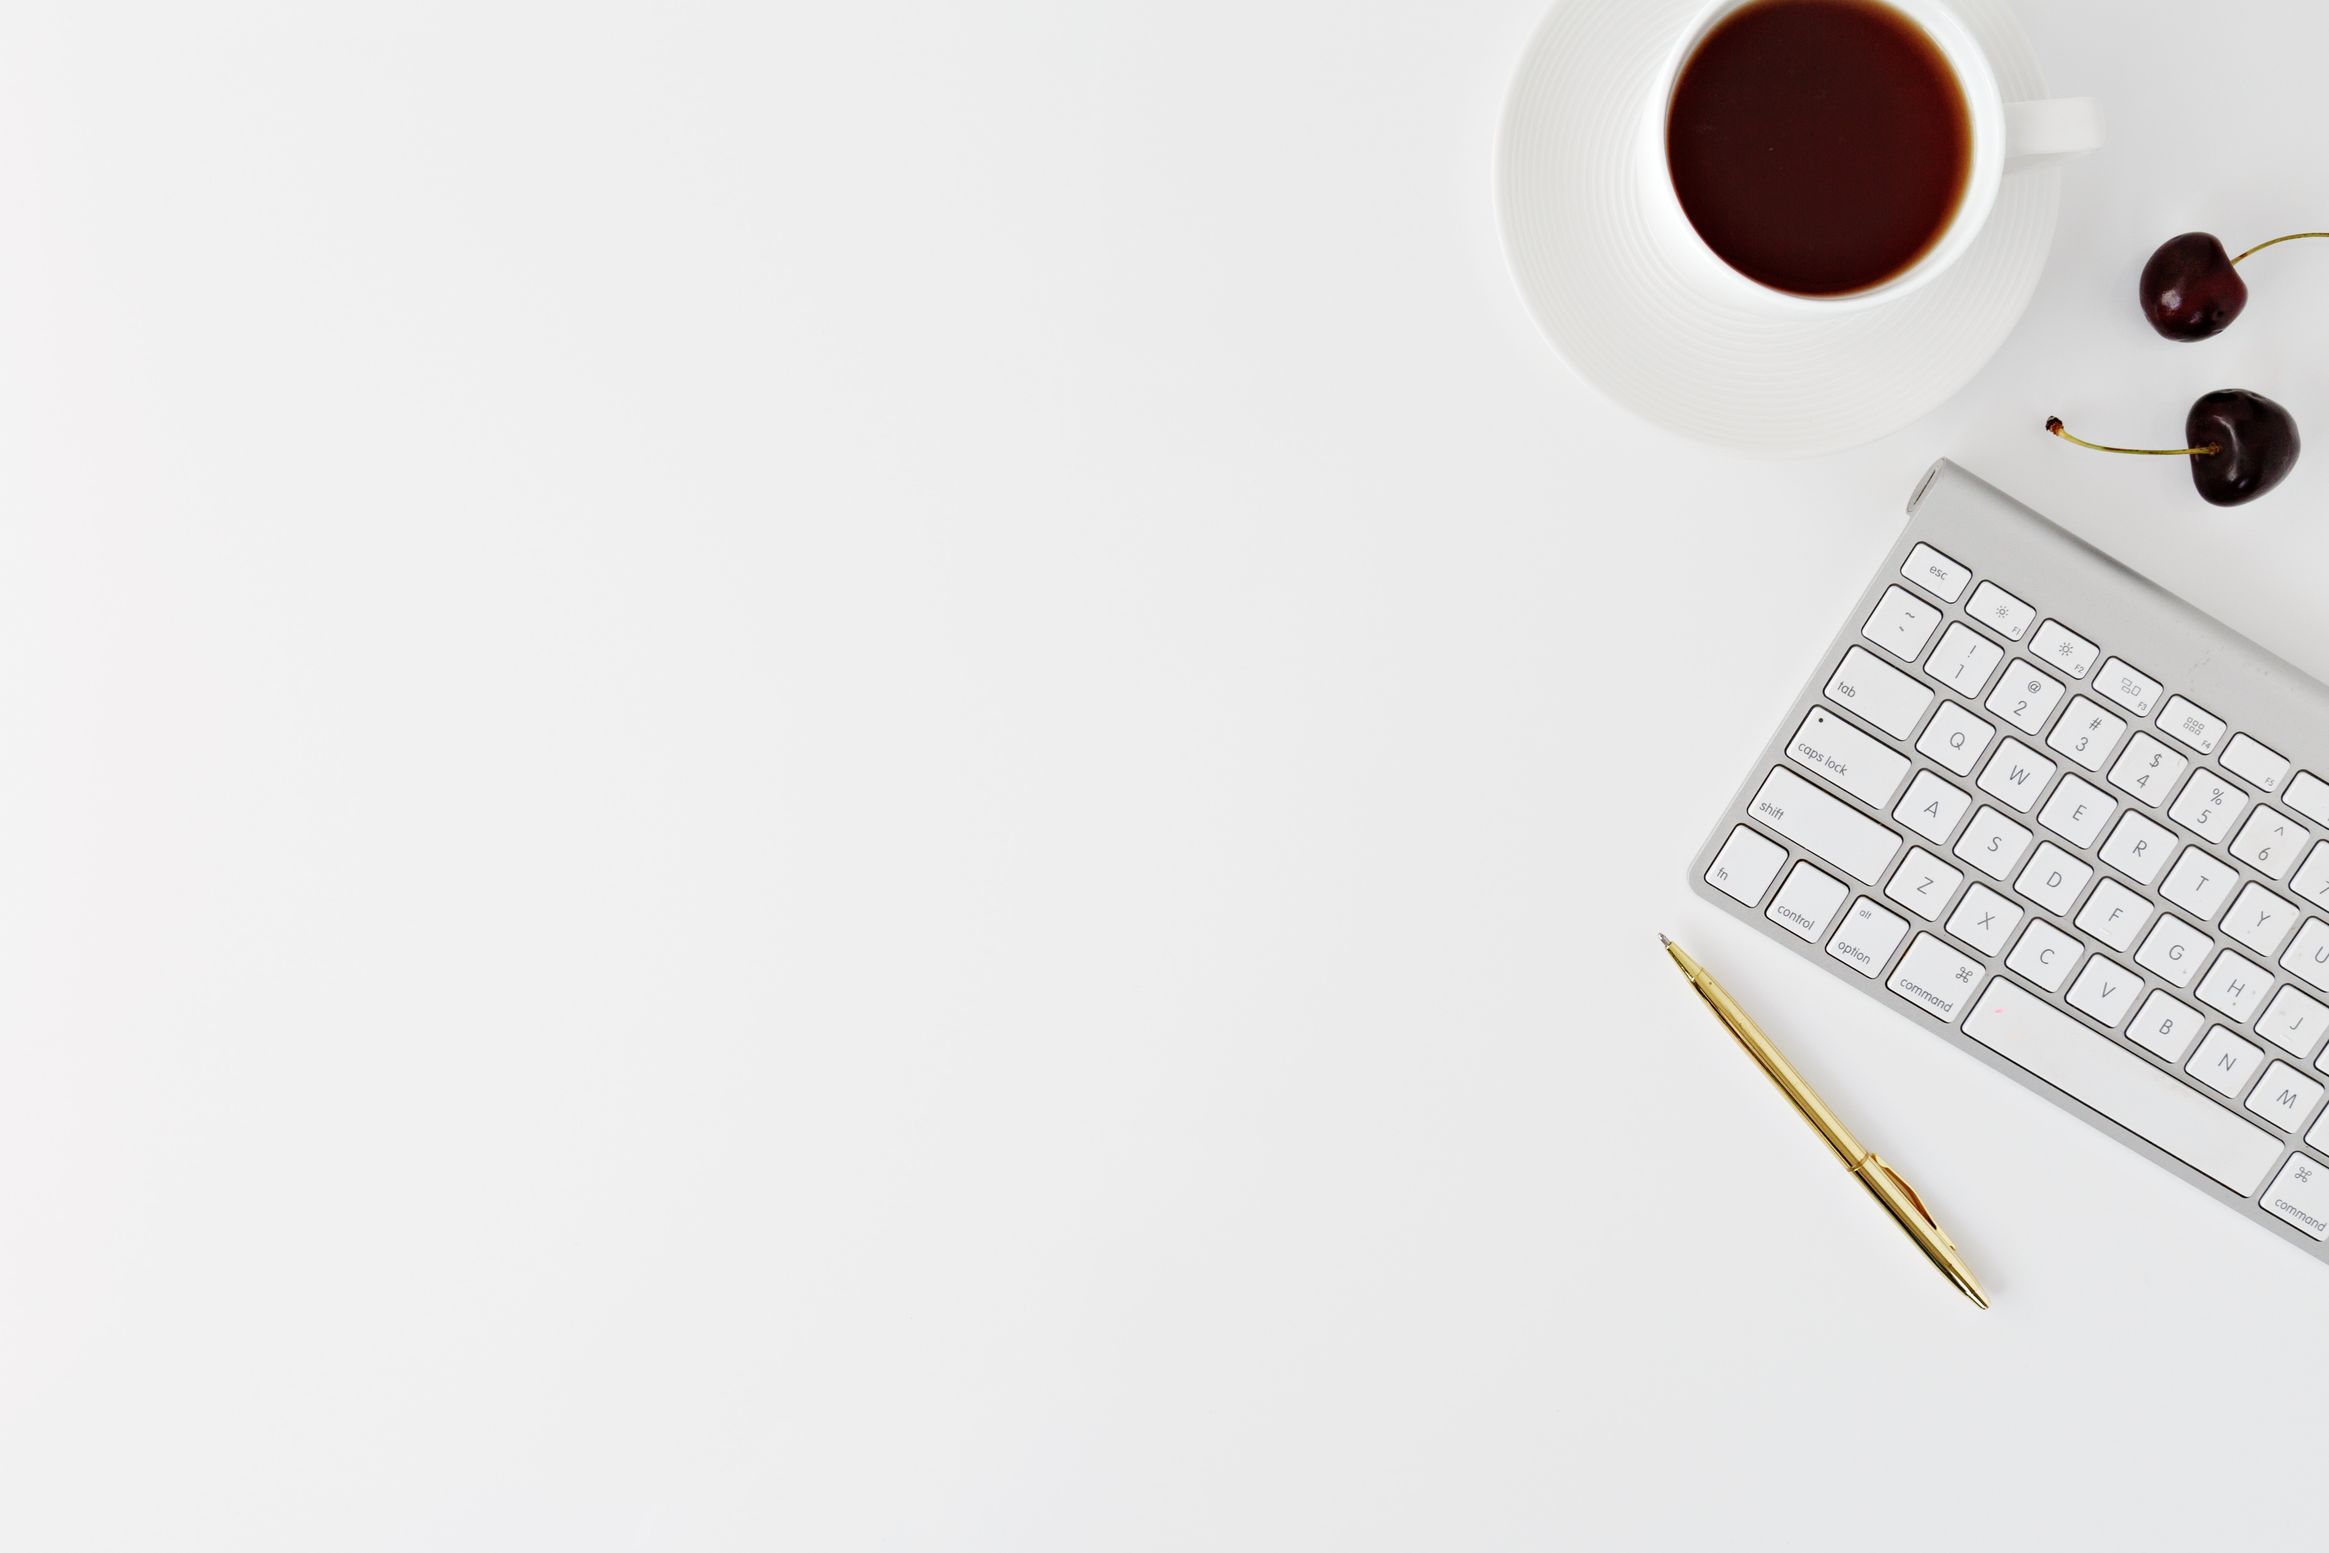
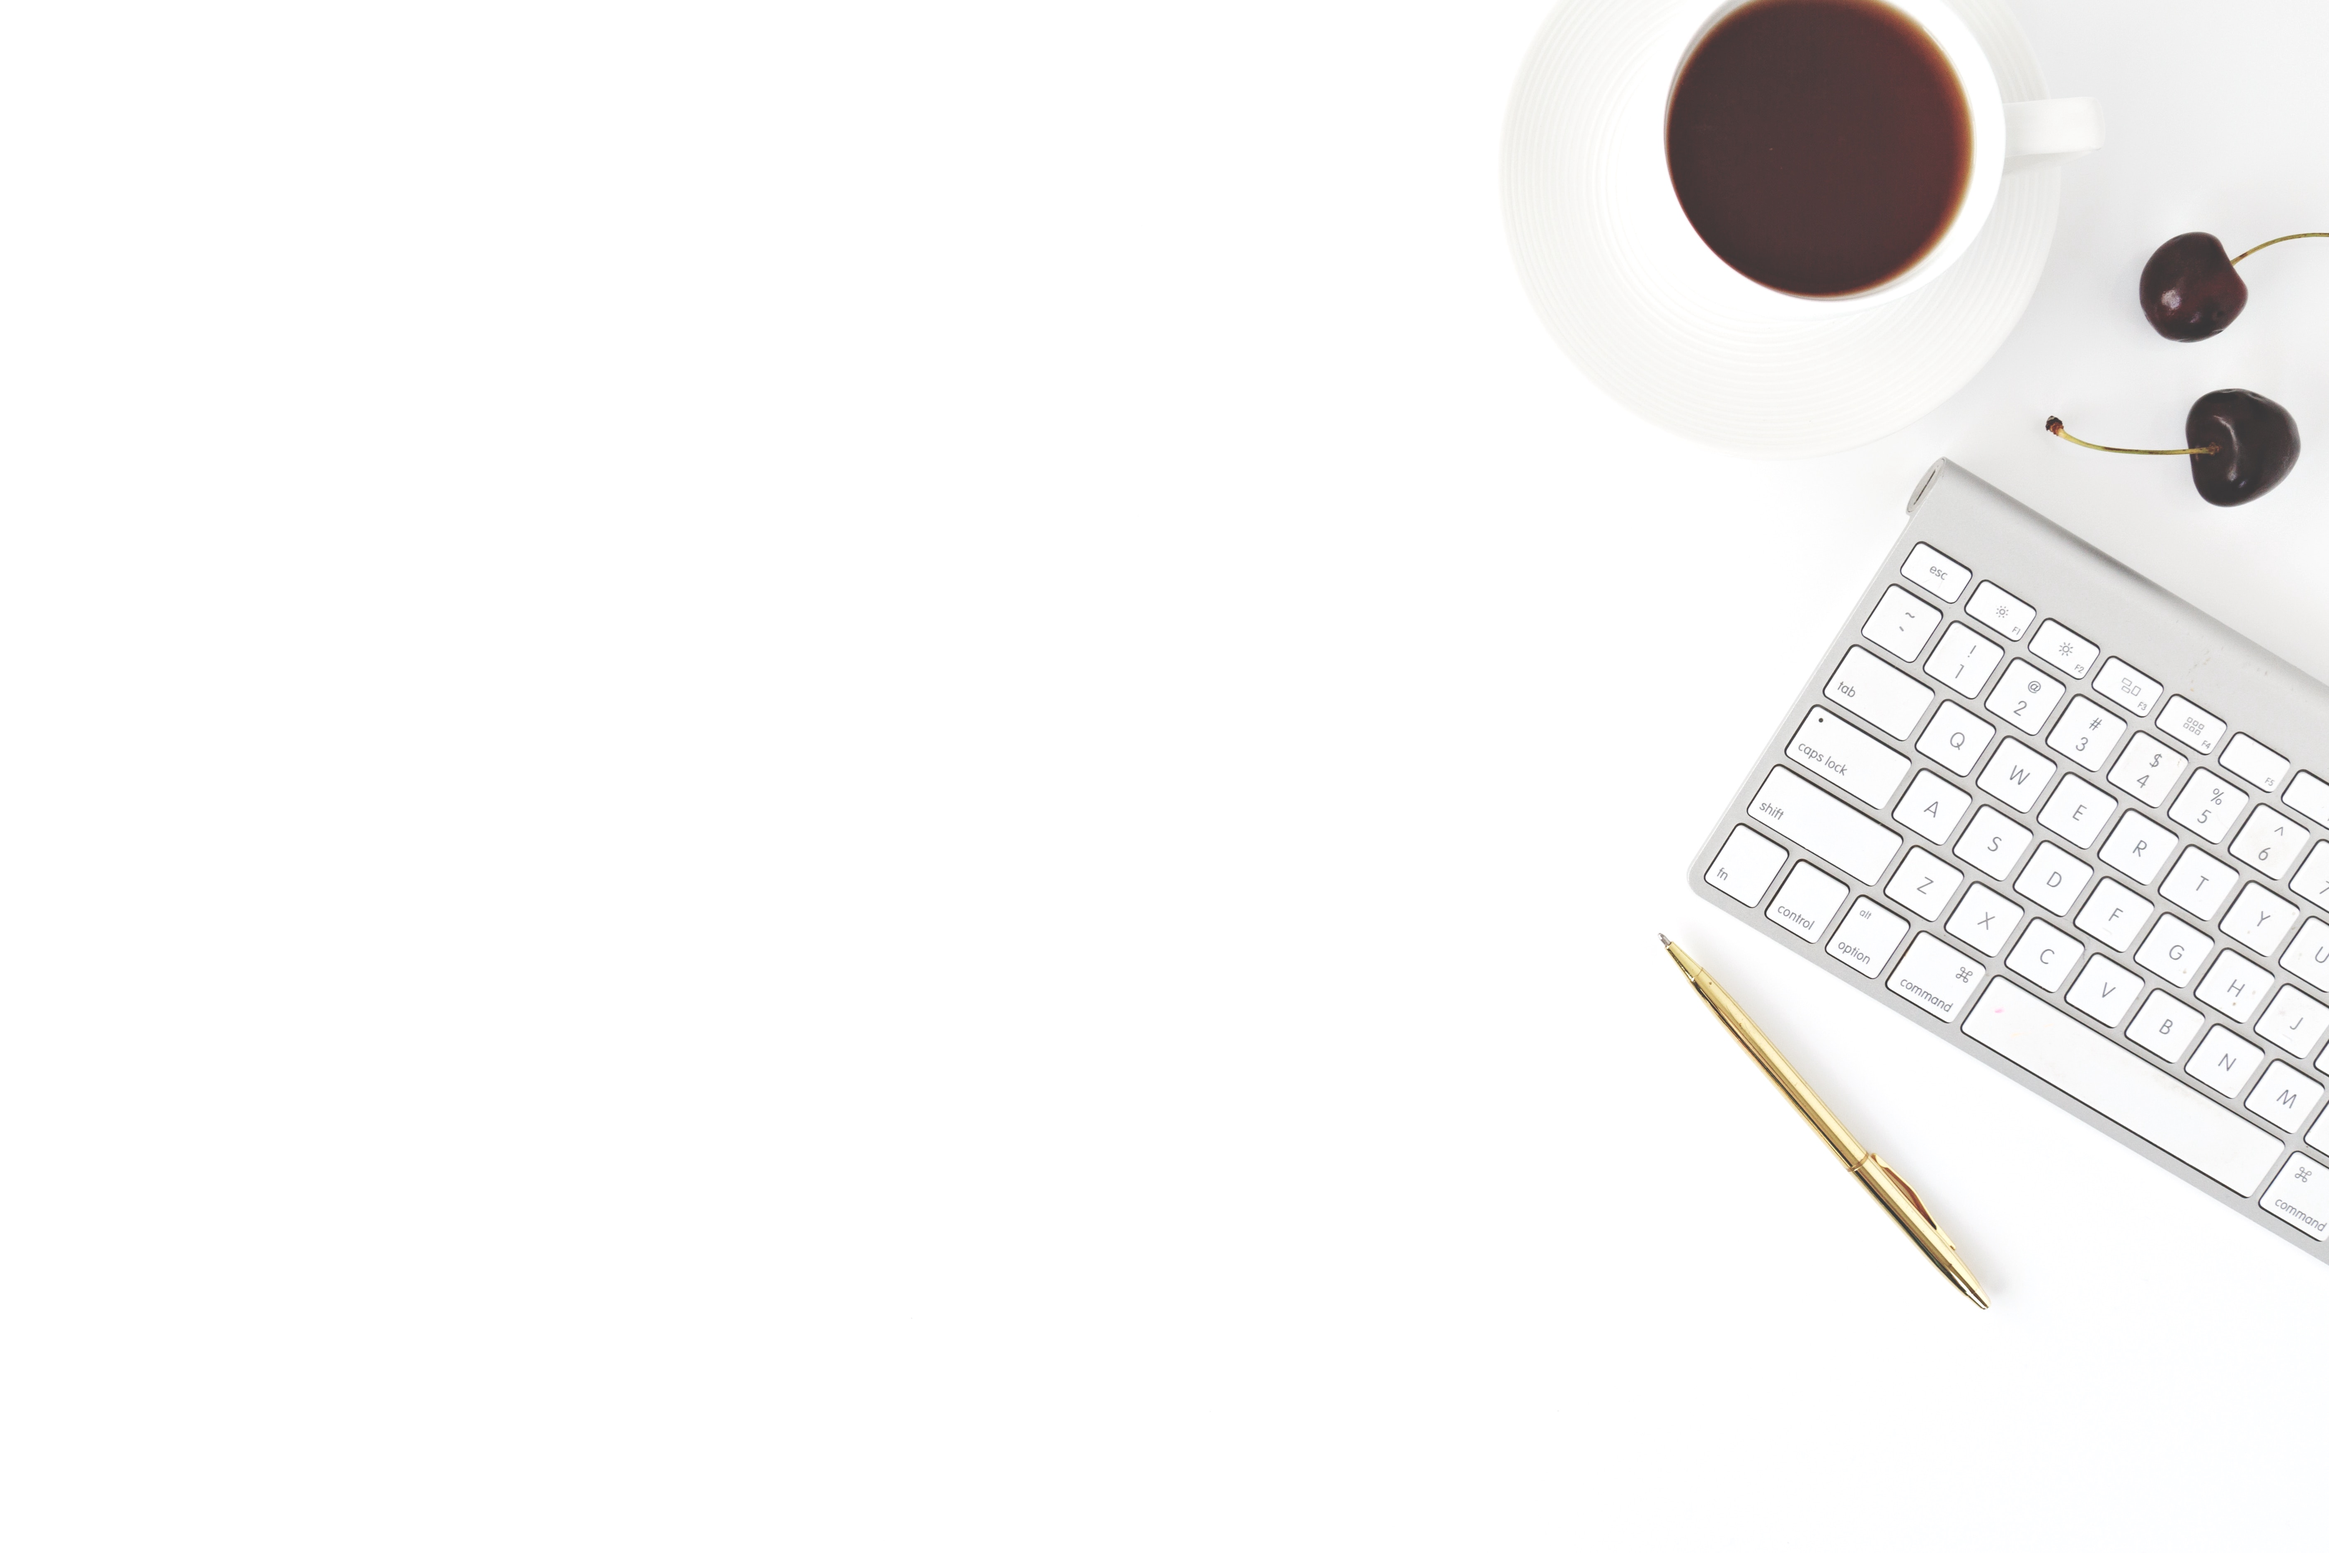
feat: mainTitle background 이미지 변경

diff --git a/components/Home/MainTitle.js b/components/Home/MainTitle.js
@@ -25,13 +25,7 @@ const MainTitle = () => {
       } w-screen h-screen`}
     >
       <div>
-        {turnOnLight ? (
-          <img
-            src="/onbulb.png"
-            alt="켜진 전구"
-            className="absolute -top-10 left-[calc(50%-40px)] w-20"
-          />
-        ) : (
+        {turnOnLight ? null : ( // /> //   className="absolute -top-10 left-[calc(50%-40px)] w-20" //   alt="켜진 전구" //   src="/onbulb.png" // <img
           <img
             src="/offbulb.png"
             alt="꺼진 전구"
@@ -56,7 +50,7 @@ const MainTitle = () => {
 
       {turnOnLight ? (
         <div
-          className="flex justify-center items-center w-full h-full"
+          className="flex ml-48 mt-48 w-full h-full"
           data-aos="fade-up"
           data-aos-duration="1000"
         >

diff --git a/styles/globals.css b/styles/globals.css
@@ -141,7 +141,7 @@ p {
 }
 
 .title-black {
-  background: url("/black-background3.jpg") no-repeat;
+  background: url("/black-background.jpg") no-repeat;
   background-color: black;
   background-size: cover;
   position: relative;
@@ -157,9 +157,12 @@ p {
   background-color: black;
 }
 
-/* .title-white {
-  background: white;
-} */
+.title-white {
+  background: url("/white-background.jpg") no-repeat;
+  background-size: 115%;
+  background-position: 50% 63%;
+  position: relative;
+}
 
 .light {
   transition: all 0.3s;
